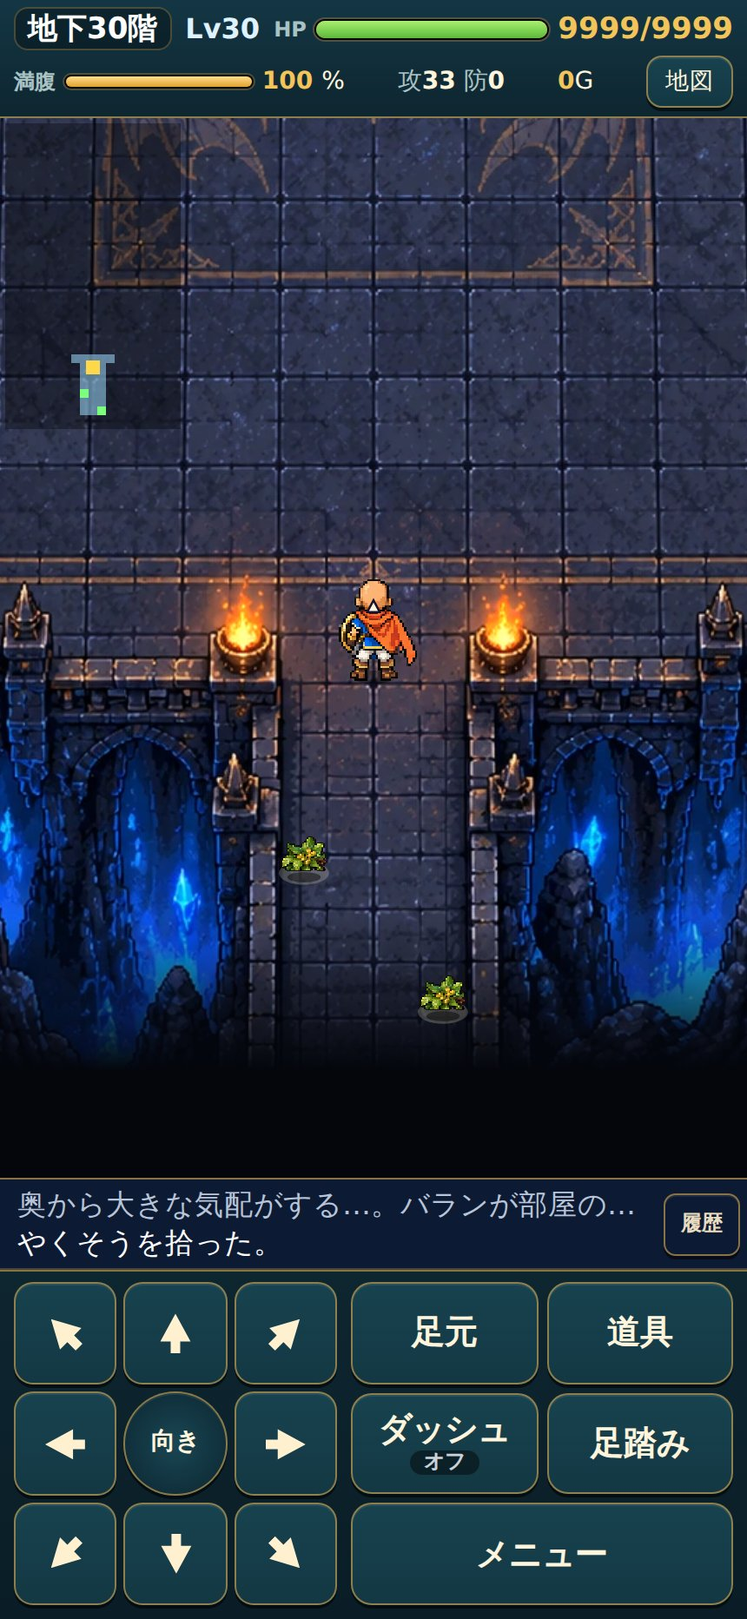
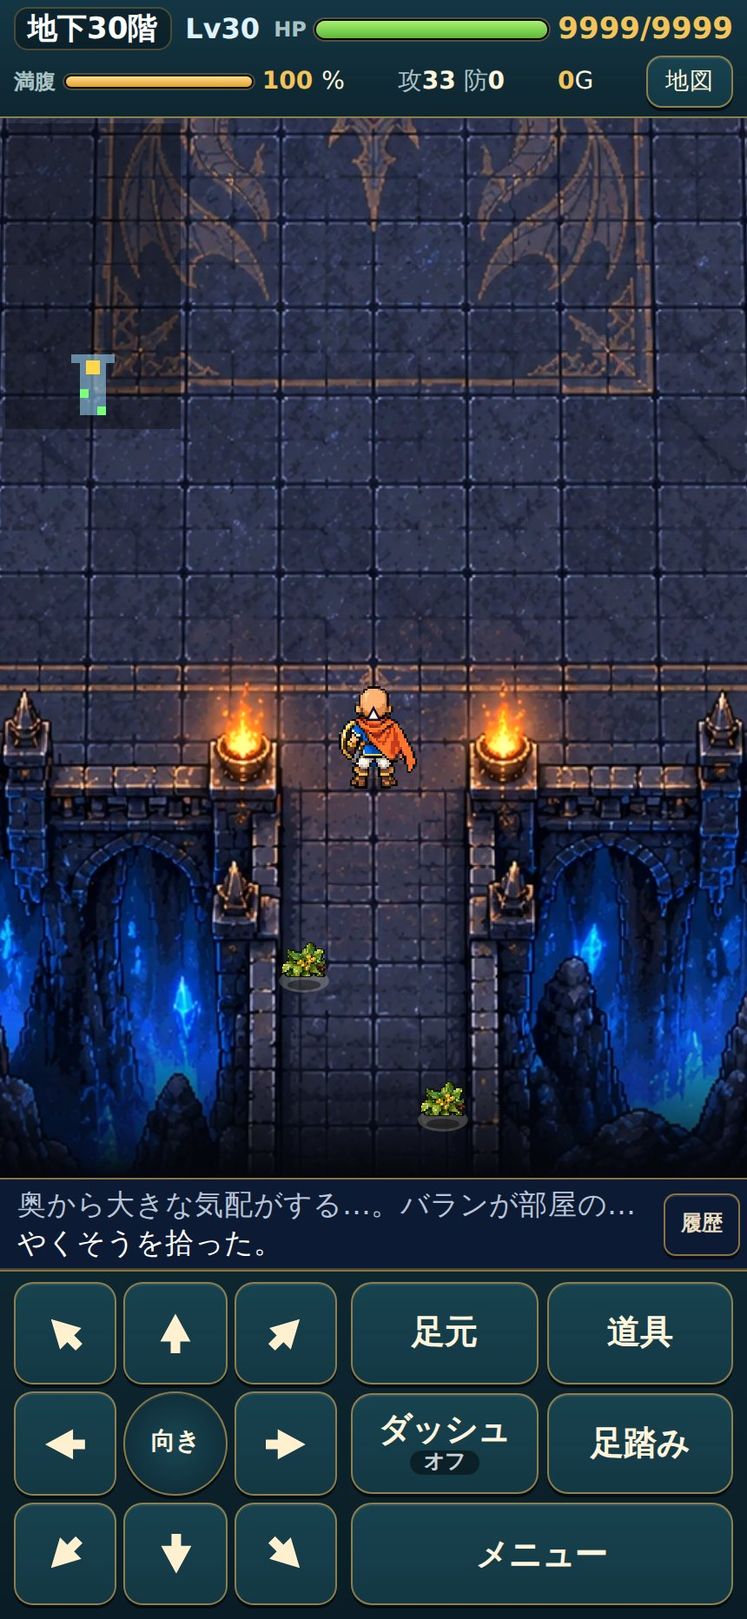
Baran room v2: closed background, throne 160px, extended layout for checking
- Use baran_room_closed.png (left opening closed) and drop the v1 patch
- Throne height 160px with the foot fixed (provisional)
- D.BARAN_ROOM_EXT (19x40) for the extended picture with the antechamber;
  not live yet (seam), checked via LAYOUT=ext tools/baran-room-check.js
- Stop the camera at the picture edges in background rooms (no black area)
- docs/BOSS_ROOM_SPECS.md: image size, entrance, boss position and
  walkable area for each boss room

Claude-Session: https://claude.ai/code/session_01HDLigwwegm7F2trSGLBQuS

diff --git a/tools/baran-room-check.js b/tools/baran-room-check.js
@@ -4,14 +4,19 @@
 //  上へ歩いて広間へ入る1歩で登場ムービー（このブラウザは動画を再生できないので、読み込み失敗から戦いへ）。開始は1回だけ
 //  バランは広間の中央。たけと並べた画面。倒すと帰還口（金の魔法陣）が広間の床に
 //  あわせて地図を書き出し、全体図（tools/baran-room-overview.py）を作る
+// LAYOUT=ext：前室を足した版（D.BARAN_ROOM_EXT。背景は assets/reference/baran-room-v2/baran_room_extended.png、継ぎ目あり・確認用）で同じことを確かめる（既定の出力 docs/baran-room-v2-ext/）
 const { chromium } = (() => { try { return require('playwright'); } catch (e) { return require('/opt/node22/lib/node_modules/playwright'); } })();
 const http = require('http'), fs = require('fs'), path = require('path'), { execFileSync } = require('child_process');
-const ROOT = path.join(__dirname, '..'), OUT = process.argv[2] || path.join(ROOT, 'docs', 'baran-room-v1');
+const EXT = process.env.LAYOUT === 'ext', LAY = EXT ? 'BARAN_ROOM_EXT' : 'BARAN_ROOM', EXT_IMG = 'assets/reference/baran-room-v2/baran_room_extended.png';
+const ROOT = path.join(__dirname, '..'), OUT = process.argv[2] || path.join(ROOT, 'docs', EXT ? 'baran-room-v2-ext' : 'baran-room-v1');
 fs.mkdirSync(OUT, { recursive: true });
 const PORT = 8835;
 const srv = http.createServer((q, r) => { let f = path.join(ROOT, decodeURIComponent(q.url.split('?')[0])); if (f.endsWith('/')) f += 'index.html';
   fs.readFile(f, (e, d) => { if (e) { r.writeHead(404); r.end(); return; } r.writeHead(200, { 'Content-Type': { '.html': 'text/html', '.js': 'text/javascript', '.css': 'text/css', '.png': 'image/png', '.webp': 'image/webp', '.jpg': 'image/jpeg' }[path.extname(f)] || 'application/octet-stream' }); r.end(d); }); }).listen(PORT);
 let ok = 0, ng = 0; const chk = (c, m) => { if (c) ok++; else ng++; console.log(c ? 'OK' : 'NG', m); };
+// 確認用の部屋に切り替える（読み込み直すたびに）。前室を足した版の背景は、ゲームの素材には入れていないので、ここで読み込む
+const useLayout = (p) => p.evaluate(async ([LAY, img]) => { TS.Data.BARAN_ROOM_LAYOUT = LAY; if (LAY !== 'BARAN_ROOM_EXT') return;
+  const im = new Image(); im.src = img; await im.decode(); TS.Sprites.art.rooms.baranBgExt = im; }, [LAY, EXT_IMG]);
 const closeTalk = async (p) => { for (let i = 0; i < 40 && await p.$('.talk'); i++) { await p.tap('.modal-buttons button.primary', { timeout: 500 }).catch(() => {}); await p.waitForTimeout(120); } };
 
 (async () => {
@@ -26,24 +31,29 @@ const closeTalk = async (p) => { for (let i = 0; i < 40 && await p.$('.talk'); i
       G.depart(S, 4040); const r = S.run; r.player.hp = r.player.maxhp = 9999; r.player.lvl = 30;
       while (r.floor < G.maxFloor(r) - 1) { r.enemies = []; r.player.x = r.stairs.x; r.player.y = r.stairs.y; G.act(S, { type: 'descend' }); }
       r.enemies = []; r.player.x = r.stairs.x; r.player.y = r.stairs.y; TS.Save.save(S); });
-    await p.reload(); await p.waitForTimeout(700); await p.tap('#btn-continue'); await p.waitForTimeout(900);
+    await p.reload(); await p.waitForTimeout(700); await useLayout(p); await p.tap('#btn-continue'); await p.waitForTimeout(900);
     await p.evaluate(() => { while (TS.UI.modals.length) TS.UI.modals[TS.UI.modals.length - 1].close(); TS.UI.lockUntil = 0; });
     await p.tap('#b-foot'); await p.waitForTimeout(200); await p.tap('.modal-buttons button.primary'); await p.waitForTimeout(1200);
     await p.evaluate(() => { while (TS.UI.modals.length) TS.UI.modals[TS.UI.modals.length - 1].close(); TS.UI.lockUntil = 0; });
-    const a = await p.evaluate((W) => { const r = TS.UI.S.run, m = r.map, A = r.bossFight; return { floor: r.floor, bg: m.bg, w: m.w, h: m.h, p: [r.player.x, r.player.y], A,
-      boss: (r.enemies.find((e) => e.boss) || {}).type, art: !!(TS.Sprites.art.rooms.baranBg && TS.Sprites.art.rooms.baranThrone),
-      json: W === 390 ? { B: TS.Data.BARAN_ROOM, w: m.w, h: m.h, pass: m.tiles.map((t, i) => TS.Dungeon.passable(m, i % m.w, (i / m.w) | 0) ? 1 : 0), start: { x: r.player.x, y: r.player.y }, boss: (() => { const e = r.enemies.find((q) => q.boss); return { x: e.x, y: e.y }; })() } : null }; }, W);
-    chk(a.floor === 30 && a.bg === 'BARAN_ROOM' && a.w === 19 && a.h === 34 && a.boss === 'baran' && a.art && a.p.join() === '9,32', `${W} 第4章30階：バランの部屋（背景の絵・玉座）・下の通路の入口 ${JSON.stringify({ ...a, json: undefined })}`);
+    const a = await p.evaluate(([W, EXT_IMG]) => { const r = TS.UI.S.run, m = r.map, A = r.bossFight, B = TS.Data[m.bg] || {}; return { floor: r.floor, bg: m.bg, w: m.w, h: m.h, p: [r.player.x, r.player.y], A,
+      boss: (r.enemies.find((e) => e.boss) || {}).type, art: !!(TS.Sprites.art.rooms[B.bg] && TS.Sprites.art.rooms.baranThrone),
+      json: W === 390 ? { B, bgPath: m.bg === 'BARAN_ROOM_EXT' ? EXT_IMG : 'assets/rooms/baran-room.webp', w: m.w, h: m.h, pass: m.tiles.map((t, i) => TS.Dungeon.passable(m, i % m.w, (i / m.w) | 0) ? 1 : 0), start: { x: r.player.x, y: r.player.y }, boss: (() => { const e = r.enemies.find((q) => q.boss); return { x: e.x, y: e.y }; })() } : null }; }, [W, EXT_IMG]);
+    const L = EXT ? { h: 40, start: '9,38' } : { h: 34, start: '9,32' };
+    chk(a.floor === 30 && a.bg === LAY && a.w === 19 && a.h === L.h && a.boss === 'baran' && a.art && a.p.join() === L.start, `${W} 第4章30階：バランの部屋（背景の絵・玉座）・下の通路の入口 ${JSON.stringify({ ...a, json: undefined })}`);
     if (a.json) fs.writeFileSync(path.join(OUT, '_map.json'), JSON.stringify(a.json));
     // 背景の絵を敷いて、タイルの層は描かない
     const draws = await p.evaluate(() => { const R = TS.Sprites.art.rooms, seq = []; const o = CanvasRenderingContext2D.prototype.drawImage;
-      CanvasRenderingContext2D.prototype.drawImage = function (im, ...x) { seq.push(im === R.baranBg ? 'bg' : im === R.baranThrone ? 'throne' : 'x'); return o.call(this, im, ...x); };
+      CanvasRenderingContext2D.prototype.drawImage = function (im, ...x) { seq.push(im === R[TS.Data[TS.UI.S.run.map.bg].bg] ? 'bg' : im === R.baranThrone ? 'throne' : 'x'); return o.call(this, im, ...x); };
       TS.Render.drawDungeon(document.getElementById('dungeon-canvas'), TS.UI.S, performance.now()); CanvasRenderingContext2D.prototype.drawImage = o;
       return { bg: seq.filter((s) => s === 'bg').length, throne: seq.filter((s) => s === 'throne').length }; });
     chk(draws.bg === 1, `${W} 背景の絵を1回で敷く ${JSON.stringify(draws)}`);
     await p.screenshot({ path: path.join(OUT, `phone-entry_${W}.jpg`), quality: 85 });
-    // 上へ歩く：5歩で通路の上の端、6歩目で広間（登場ムービー）
-    for (let i = 0; i < 5; i++) { await p.evaluate(() => { TS.UI.lockUntil = 0; }); await p.tap('#dpad [data-dir="up"]'); await p.waitForTimeout(260); }
+    // 上へ歩く：通路の上の端（前室なし 5歩・前室あり 11歩）、次の1歩で広間（登場ムービー）
+    if (EXT) {   // 前室の中ほど（2歩）：前室・継ぎ目の見え方
+      for (let i = 0; i < 3; i++) { await p.evaluate(() => { TS.UI.lockUntil = 0; }); await p.tap('#dpad [data-dir="up"]'); await p.waitForTimeout(260); }
+      await p.screenshot({ path: path.join(OUT, `phone-ante_${W}.jpg`), quality: 85 });
+    }
+    for (let i = EXT ? 3 : 0; i < (EXT ? 11 : 5); i++) { await p.evaluate(() => { TS.UI.lockUntil = 0; }); await p.tap('#dpad [data-dir="up"]'); await p.waitForTimeout(260); }
     const b5 = await p.evaluate(() => { const r = TS.UI.S.run; return { p: [r.player.x, r.player.y], intro: r.bossFight.intro || null, engaged: r.bossFight.engaged }; });
     chk(b5.p.join() === '9,27' && !b5.intro && !b5.engaged, `${W} 通路の上の端（まだ始まらない） ${JSON.stringify(b5)}`);
     await p.screenshot({ path: path.join(OUT, `phone-door_${W}.jpg`), quality: 85 });
@@ -76,7 +86,7 @@ const closeTalk = async (p) => { for (let i = 0; i < 40 && await p.$('.talk'); i
     chk(!errs.length, `${W} エラーなし ${errs.join(' / ')}`);
     await ctx.close();
   }
-  try { execFileSync('python3', ['-I', path.join(__dirname, 'baran-room-overview.py'), path.join(OUT, '_map.json')]); fs.rmSync(path.join(OUT, '_map.json')); } catch (e) { chk(false, '全体図：' + e.message); }
+  try { execFileSync('python3', ['-I', path.join(__dirname, 'baran-room-overview.py'), path.join(OUT, '_map.json'), OUT]); fs.rmSync(path.join(OUT, '_map.json')); } catch (e) { chk(false, '全体図：' + e.message); }
   console.log(`\n${ok} OK / ${ng} NG`);
   await b.close(); srv.close();
   process.exit(ng ? 1 : 0);

diff --git a/js/data.js b/js/data.js
@@ -67,15 +67,26 @@
    *  列9（広間の中央の列・下の通路の中央）の中心が、絵の中央 x470.5 に来る
    *  広間（戦う床）：x2〜16・y10〜26（15×17）。絵の床 x 約97〜843（縁の帯に少しかかる）。
    *  前室と通路：絵の下の中央の通路（柱の内側 x400〜537）＝ x8〜10・y27〜32（3×6）。入口（たけが立つ所）は (9,32)。
-   *  壁：玉座の壇・階段・左右の縁と炎の台・柱・下の通路の両脇・地図のいちばん下の行。左の旧入口（絵の左の開口）は閉じた（make-baran-room.py の仮のつぎあて）。
-   *  throne：玉座（assets/rooms/baran-throne.png）を壇の上に描く。絵の座標で中心x・足元y・高さ（130px は仮。バランとたけを並べて確認する）。当たり判定は無い（壇は壁）
+   *  壁：玉座の壇・階段・左右の縁と炎の台・柱・下の通路の両脇・地図のいちばん下の行。左の旧入口は、閉じた版の絵（ZIP baran_room_assets_v2）で閉じている。
+   *  throne：玉座（assets/rooms/baran-throne.png）を壇の上に描く。絵の座標で中心x・足元y・高さ（160px は確認用）。当たり判定は無い（壇は壁）
    *  flames：絵の中の炎の位置（ゆらぐ明かりを重ねる） */
   D.BARAN_ROOM = {
     bg: 'baranBg', w: 19, h: 34, tile: 845 / 17, imgX: 470.5 - 845 / 17 * 9.5, imgY: 500 - 845 / 17 * 10, imgW: 941, imgH: 1672,
     hall: { x: 2, y: 10, w: 15, h: 17 }, corridor: { x: 8, y: 27, w: 3, h: 6 }, start: { x: 9, y: 32 },
-    throne: { img: 'baranThrone', cx: 470, foot: 398, h: 130 },
+    throne: { img: 'baranThrone', cx: 470, foot: 398, h: 160 },   // 足元（x470・y398）は固定。高さは 130→160px（2026年10月20日、確認用。確定ではない）
     flames: [[92, 400], [250, 392], [380, 350], [560, 350], [695, 392], [850, 400], [75, 575], [65, 755], [60, 960], [55, 1260], [885, 575], [870, 850], [880, 1260], [375, 1355], [565, 1355]],
   };
+  /* 前室を足した版（ZIP baran_room_assets_v2 の baran_room_extended.png、941×1972）。**配置の確認用**（継ぎ目が残るので、ゲームではまだ使わない）。
+   * 座標と倍率は D.BARAN_ROOM と同じ（絵の上の1672pxは閉じた版と同じピクセル）。下の300pxに前室：
+   *  通路 x8〜10・y27〜33（3×7）→ 前室 x7〜11・y34〜36（5×3。最初の道具を置く）→ 出口側 x8〜10・y37〜38（炎の台の間）。入口は (9,38)。
+   *  前室の左右の壁（絵の x 約290〜320・615〜650）、下の炎の台（x365〜405・530〜570、y1845〜1890）は壁 */
+  D.BARAN_ROOM_EXT = Object.assign({}, D.BARAN_ROOM, {
+    bg: 'baranBgExt', h: 40, imgH: 1972,
+    corridor: { x: 7, y: 34, w: 5, h: 3 }, floors: [{ x: 8, y: 27, w: 3, h: 7 }, { x: 8, y: 37, w: 3, h: 2 }], start: { x: 9, y: 38 },
+    flames: D.BARAN_ROOM.flames.concat([[305, 1790], [630, 1790], [385, 1868], [550, 1868]]),
+  });
+  // 通常バラン戦で使う部屋：前室を足した背景が仕上がるまでは D.BARAN_ROOM（確認用の画面は tools/baran-room-check.js が D.BARAN_ROOM_EXT に切り替える）
+  D.BARAN_ROOM_LAYOUT = 'BARAN_ROOM';
   /* 隠しダンジョン（2026年10月確定）：真大魔王バーンを倒したあと、30階の時空の亀裂から入る。
    * 31階から始まり、35階の竜人王バランまで。31〜34階は部屋の数が本編の約2倍（D.HIDDEN_MAP）。32〜34階は強敵（enemyMul、仮）。帰還の祠は無い。
    * 本編の31〜33階とは別の階（run.hidden）。帰りは帰還の巻物か、竜人王バランを倒したあとの帰還口

diff --git a/js/render.js b/js/render.js
@@ -290,7 +290,14 @@
     const pp = lerpPos('p', p.x, p.y, now);
     // 強いボスの攻撃だけ、画面を少し揺らす（「演出：控えめ」では揺らさない）
     const shk = TS.FX ? TS.FX.shakeOffset(RD, now, k) : [0, 0];
-    const ox = Math.round(W / 2 - (pp.x + 0.5) * ts) + shk[0], oy = Math.round(H / 2 - (pp.y + 0.5) * ts) + shk[1];
+    let ox = Math.round(W / 2 - (pp.x + 0.5) * ts) + shk[0], oy = Math.round(H / 2 - (pp.y + 0.5) * ts) + shk[1];
+    /* 背景の絵の部屋（30階の玉座の間・通常バラン戦）：絵の外（黒）が画面に出ないよう、絵の上下の端で見る位置を止める
+     * （たけが入口・前室のような絵の端にいるとき、たけは画面の中央より下に見える）。絵が画面より小さい向きは止めない */
+    const bgCam = m.throne ? D.THRONE_ROOM : m.bg ? D[m.bg] : null;
+    if (bgCam) {
+      const sc = ts / bgCam.tile, top = oy - bgCam.imgY * sc, bot = top + bgCam.imgH * sc;
+      if (bgCam.imgH * sc >= H) { if (bot < H) oy += Math.round(H - bot); else if (top > 0) oy -= Math.round(top); }
+    }
     const x0 = Math.max(0, Math.floor(-ox / ts)), x1 = Math.min(m.w - 1, Math.ceil((W - ox) / ts));
     const y0 = Math.max(0, Math.floor(-oy / ts)), y1 = Math.min(m.h - 1, Math.ceil((H - oy) / ts));
     const L = getLayer(run);

diff --git a/js/game.js b/js/game.js
@@ -312,7 +312,7 @@
     const throne30 = throne && floor === FF.vearn;
     // 隠しダンジョン：部屋の大きい地図（D.HIDDEN_MAP）。帰還の祠は無い
     // 通常バラン戦（第4章）：背景の絵の部屋（D.BARAN_ROOM。下の通路から入る）。竜人王バラン（隠しダンジョン）には使わない
-    const room = Fdef.boss === 'baran' ? 'BARAN_ROOM' : null;
+    const room = Fdef.boss === 'baran' ? D.BARAN_ROOM_LAYOUT || 'BARAN_ROOM' : null;
     const gen = DG.generate(floor, rng, { boss: !!Fdef.boss || throne, throne: throne30, room, hidden: !!Fdef.hidden, returnPoint: !Fdef.hidden && !Fdef.boss && !throne && rpFloors.includes(floor) });
     run.hazards = []; run.fog = 0; run.sense = 0;   // 気配察知は階を移ると切れる
     run.player.half = 0;   // 2回行動の途中は、階を移ると数え直す

diff --git a/js/dungeon.js b/js/dungeon.js
@@ -178,7 +178,7 @@
     const T = D[name], w = T.w, h = T.h;
     const tiles = new Array(w * h).fill(WALL);
     const rooms = [Object.assign({ id: 0 }, T.corridor), Object.assign({ id: 1 }, T.hall)];
-    for (const r of rooms) for (let y = r.y; y < r.y + r.h; y++) for (let x = r.x; x < r.x + r.w; x++) tiles[y * w + x] = FLOOR;
+    for (const r of rooms.concat(T.floors || [])) for (let y = r.y; y < r.y + r.h; y++) for (let x = r.x; x < r.x + r.w; x++) tiles[y * w + x] = FLOOR;   // floors：部屋ではない通路の床
     const map = { w, h, tiles, rooms, boss: true, bg: name };
     const hl = T.hall;
     return { map, start: { x: T.start.x, y: T.start.y }, stairs: null, returnPoint: null, startRoom: 0, bossPos: { x: hl.x + (hl.w >> 1), y: hl.y + (hl.h >> 1) } };

diff --git a/tools/make-baran-room.py b/tools/make-baran-room.py
@@ -1,22 +1,24 @@
 # 通常バラン戦の部屋の素材を作る：python3 -I tools/make-baran-room.py
-# 元の素材（ChatGPT制作。描き直しはしない）：assets/reference/baran-room-v1/
-#   baran_room.png（941×1672）→ assets/rooms/baran-room.webp（同じ大きさ）
-#     ※仮のつぎあて：左の壁の開口（旧入口。絵の x0〜104・y857〜927）は通れないので、同じ絵の左の壁（y990〜1060）を写して閉じる。
-#       ChatGPT の直した絵が届いたら、このつぎあては外す（PATCH を空にする）
-#   baran_throne.png（透過あり）→ 透明な余白を切り落として高さ260（ゲームでは130px＝2.6マス相当で描く。倍の細かさ）→ assets/rooms/baran-throne.png
+# 元の素材（ChatGPT制作。描き直しはしない）：
+#   assets/reference/baran-room-v2/baran_room_closed.png（941×1672。v1 の左の旧入口を閉じた版）→ assets/rooms/baran-room.webp（同じ大きさ）
+#     v1 で入れていた仮のつぎあて（PATCH）は、閉じた版が届いたので外した（PATCH は空）
+#   assets/reference/baran-room-v2/baran_room_extended.png（941×1972。下に前室を足した版）→ 継ぎ目が残っているので、ゲームの背景には使わない。
+#     配置の確認用（node tools/baran-room-check.js が D.BARAN_ROOM_EXT で読み込む）。仕上がった版が届いたら baran-room.webp をこれに替える
+#   assets/reference/baran-room-v1/baran_throne.png（透過あり）→ 透明な余白を切り落として高さ320（ゲームでは160px＝3.2マス相当で描く。倍の細かさ）→ assets/rooms/baran-throne.png
 import os
 from PIL import Image
 ROOT = os.path.join(os.path.dirname(os.path.abspath(__file__)), '..')
-SRC = os.path.join(ROOT, 'assets/reference/baran-room-v1/')
+SRC = os.path.join(ROOT, 'assets/reference/baran-room-v2/')
+SRC1 = os.path.join(ROOT, 'assets/reference/baran-room-v1/')
 OUT = os.path.join(ROOT, 'assets/rooms/')
-PATCH = [((0, 990, 104, 1060), (0, 857))]   # (写す範囲, 貼る左上)。下の炎の台の下の壁の柱を写す
-bg = Image.open(SRC + 'baran_room.png').convert('RGB')
+PATCH = []   # (写す範囲, 貼る左上)。v1 の仮のつぎあて ((0, 990, 104, 1060), (0, 857)) は外した
+bg = Image.open(SRC + 'baran_room_closed.png').convert('RGB')
 for box, at in PATCH:
     bg.paste(bg.crop(box), at)
 bg.save(OUT + 'baran-room.webp', 'WEBP', quality=92, method=6)
-th = Image.open(SRC + 'baran_throne.png').convert('RGBA')
+th = Image.open(SRC1 + 'baran_throne.png').convert('RGBA')
 th = th.crop(th.getchannel('A').getbbox())
-h = 260
+h = 320
 th = th.resize((round(th.width * h / th.height), h), Image.LANCZOS)
 th.save(OUT + 'baran-throne.png', optimize=True)
 print('bg', bg.size, 'throne', th.size)

diff --git a/tools/baran-room-overview.py b/tools/baran-room-overview.py
@@ -1,11 +1,11 @@
-# 通常バラン戦の部屋の全体図：python3 -I tools/baran-room-overview.py <地図のJSON>（node tools/baran-room-check.js が書き出して呼ぶ）
+# 通常バラン戦の部屋の全体図：python3 -I tools/baran-room-overview.py <地図のJSON> [出力フォルダ]（node tools/baran-room-check.js が書き出して呼ぶ）
 # 背景（assets/rooms/baran-room.webp）に、通れるマス（緑の枠）・入口・ボスの位置・玉座・バランとたけ（ゲームと同じ倍率）を重ねる
 import sys, os, json
 from PIL import Image, ImageDraw, ImageFont
 ROOT = os.path.join(os.path.dirname(os.path.abspath(__file__)), '..')
 J = json.load(open(sys.argv[1])); B = J['B']; T = B['tile']
 F = ImageFont.truetype('/usr/share/fonts/truetype/wqy/wqy-zenhei.ttc', 20)
-bg = Image.open(os.path.join(ROOT, 'assets/rooms/baran-room.webp')).convert('RGBA')
+bg = Image.open(os.path.join(ROOT, J.get('bgPath') or 'assets/rooms/baran-room.webp')).convert('RGBA')
 th = Image.open(os.path.join(ROOT, 'assets/rooms/baran-throne.png')).convert('RGBA')
 t = B['throne']; tw = round(th.width * t['h'] / th.height); thr = th.resize((tw, round(t['h'])), Image.LANCZOS)
 bg.alpha_composite(thr, (round(t['cx'] - tw / 2), round(t['foot'] - t['h'])))
@@ -32,12 +32,14 @@ d = ImageDraw.Draw(bg)
 def label(x, y, s, col):
     w = d.textlength(s, font=F); d.rectangle([x - 4, y - 3, x + w + 4, y + 25], fill=(0, 0, 0, 200)); d.text((x, y), s, fill=col, font=F)
 label(110, 508, '広間 15×17（緑の枠＝通れるマス）', (130, 255, 150))
-label(560, 1530, '前室・通路 3×6', (130, 255, 150))
-label(560, 1600, '入口（黄色の枠）', (255, 230, 90))
-label(4, 820, '旧入口：閉じた（仮のつぎあて）', (255, 140, 140))
-label(560, 150, '玉座 高さ130px（仮）', (255, 230, 160))
+ext = J['h'] > 34
+label(560, 1530, '通路 3×7・前室 5×3（確認用）' if ext else '前室・通路 3×6', (130, 255, 150))
+label(560, 1600 if not ext else 1900, '入口（黄色の枠）', (255, 230, 90))
+label(4, 820, '旧入口：閉じた版の絵', (255, 140, 140))
+label(560, 150, '玉座 高さ%dpx（足元固定）' % round(t['h']), (255, 230, 160))
+if ext: label(4, 1640, '継ぎ目（y1672）', (255, 140, 140))
 label(560, 182, '左：たけ　右：バラン（大きさの比較）', (255, 230, 160))
-out = os.path.join(ROOT, 'docs', 'baran-room-v1'); os.makedirs(out, exist_ok=True)
+out = sys.argv[2] if len(sys.argv) > 2 else os.path.join(ROOT, 'docs', 'baran-room-v1'); os.makedirs(out, exist_ok=True)
 bg.convert('RGB').save(os.path.join(out, 'overview.jpg'), quality=88)
 clean.convert('RGB').save(os.path.join(out, 'overview-clean.jpg'), quality=88)
 print('saved')

diff --git a/docs/BARAN_ROOM_V1.md b/docs/BARAN_ROOM_V1.md
@@ -29,8 +29,8 @@
 - **広間（戦う床）**：15×17（x2〜16・y10〜26）。今までの広間（15×15）より2行広い。
 - **前室・通路**：絵の下の中央の通路（柱の内側 x400〜537）を通れる所にしました。x8〜10・y27〜32（3×6）。入口（たけが立つ所）は (9,32)。最初の道具はここに置きます。
 - **壁**：玉座の壇・階段・左右の縁と炎の台・柱・下の通路の両脇。
-- **左の旧入口**：通れません。絵の左の開口は、**仮のつぎあて**（同じ絵の左の壁 y990〜1060 を写した）で閉じています。ChatGPT の直した絵が届いたら差し替えます（下の依頼1）。
-- **玉座**：`assets/rooms/baran-throne.png` を壇の上の中央に描きます（絵の x470・足元 y398・高さ130px＝2.6マス。**仮**）。当たり判定はありません（壇は壁）。
+- **左の旧入口**：通れません。絵も閉じた版（v2）に替えました。
+- **玉座**：`assets/rooms/baran-throne.png` を壇の上の中央に描きます（絵の x470・足元 y398・高さ160px＝3.2マス。**確認用**）。当たり判定はありません（壇は壁）。
 - **ボスの最初の位置**：広間の中央 (9,18)。入口からの距離は8マス（今までの7マスより1マス遠い）。
 - 竜人王バラン（隠しダンジョン）には使っていません。
 
@@ -39,8 +39,19 @@
 - **共通の形**：通路が6マス → 3マス。ボスは広間から出ないので戦いには影響しません。
 - **画面の見え方**：スマホの画面は縦に長いので、下から入ると広間の奥が少し見えやすくなります。入った直後、ボス（7〜8マス上）は画面の上の端の外か端にいます（以前の左の入口でも、横7マスで画面の外でした）。
 
+## v2（ZIP baran_room_assets_v2、2026年10月20日）
+- **左の旧入口を閉じた版**（`baran_room_closed.png`、941×1672）を、ゲームの背景にしました。元の絵との差は x0〜109・y800〜959 だけ（README のとおり）。v1 の仮のつぎあては外しました。
+- **玉座**：足元（x470・y398）を固定したまま、高さ 130 → **160px**（3.2マス）。確認用で、確定ではありません。
+- **前室を足した版**（`baran_room_extended.png`、941×1972）：上の1672pxは閉じた版と同じピクセル。**継ぎ目（y1672）が残るので、ゲームの背景にはまだ使っていません**。
+  - 配置の確認用に、地図 `D.BARAN_ROOM_EXT`（19×40）を用意しました。座標と倍率は同じです。
+    - 通路 x8〜10・y27〜33（3×7）→ 前室 x7〜11・y34〜36（5×3。最初の道具）→ 出口側 x8〜10・y37〜38 → 入口 (9,38)。
+    - 前室の左右の壁と、下の炎の台（x365〜405・530〜570）は通れない。
+  - 確認：`LAYOUT=ext node tools/baran-room-check.js`（画像は `docs/baran-room-v2-ext/`）。仕上がった絵が届いたら `D.BARAN_ROOM_LAYOUT = 'BARAN_ROOM_EXT'` にして、背景を差し替えます。
+- **入口の黒い所**：背景の絵の部屋（バラン・30階の玉座の間）では、画面を絵の上下の端で止めるようにしました。入口に立っても、絵の外の黒が画面に出ません（たけは画面の中央より下に見える）。
+- 元の素材：`assets/reference/baran-room-v2/`（README・閉じた版・前室つき版・継ぎ目のない見本 design_reference.png）。
+
 ## 確認したこと（PCのブラウザで幅360・390・430）
-- `node tools/baran-room-check.js`（18項目すべて OK）：
+- `node tools/baran-room-check.js`（18項目すべて OK。前室つき版 `LAYOUT=ext` も18項目 OK）：
   - 第4章30階で、バランの部屋（背景の絵・玉座）・下の通路の入口 (9,32) に着く。背景の絵を1回で敷く。
   - 上へ5歩で通路の上の端（まだ始まらない）、6歩目で広間へ入り、登場ムービー → 戦いの開始は1回だけ。バランは広間の中央。
   - 倒すと、帰還口と報酬は広間の床。エラーなし。
@@ -49,7 +60,7 @@
   - `phone-entry_*.jpg`（入口）・`phone-door_*.jpg`（広間の入口の手前）・`phone-battle_*.jpg`（たけとバラン）・`phone-throne_*.jpg`（玉座の前でたけとバランを並べる）・`phone-portal_*.jpg`（撃破後の帰還口）
 - ロジックのテスト：全ボスの部屋が下からだけ入れる・入口から広間へ行ける・ボスは奥の中央・入室で1回だけ・報酬と帰還口は広間の床・以前の形のセーブはそのまま・33階の到着位置・バランの部屋の寸法と壁。
 
-## ChatGPT への依頼（画像と寸法）
+## ChatGPT への依頼（画像と寸法）（v1 のときの依頼。1・2 は v2 で届いた。ほかの部屋の寸法は `docs/BOSS_ROOM_SPECS.md`）
 1. **バランの部屋：左の開口を閉じた版**
    - `baran_room.png` と同じ 941×1672。左の壁の開口（x0〜110・y840〜940）を、上下と同じ壁（柱と炎の台・洞窟の岩）に。ほかは変えない。
    - 今は同じ絵の壁を写した仮のつぎあてで、継ぎ目が少し見えます。
@@ -63,5 +74,5 @@
    - 左右の縁や下の通路の脇に、出入口に見える開口は描かない。
 
 ## 判断していただきたいこと
-1. **玉座の大きさ**：130px（2.6マス）で置きました。画面（`phone-throne_390.jpg`）では、手前に立つバランより少し小さく見えます。130pxのままか、160px（3.2マス）に上げるか。
-2. **前室**：今はバランの部屋の前室を「絵の下の通路」で兼ねています（入口で画面の下半分が黒い）。上の依頼2で前室を足した絵を作ってもらうかどうか。
+1. 玉座 160px のまま確定するか（画像：`docs/baran-room-v1/phone-throne_*.jpg`・`overview.jpg`）。
+2. 前室つき版の継ぎ目が仕上がったら、その版に切り替えてよいか。

diff --git a/docs/BOSS_ROOM_SPECS.md b/docs/BOSS_ROOM_SPECS.md
@@ -1,0 +1,53 @@
+# ボス部屋の画像の制作仕様（ChatGPT 向け・2026年10月20日）
+
+全ボスの部屋を「画面の下の前室・通路から上へ進んで入り、奥のボスへ向かう」形にそろえます。
+背景の絵が届いた部屋から順に、その絵に合わせた専用の地図（通れるマス）を作ります（通常バラン戦の `D.BARAN_ROOM` と同じやり方）。
+
+## 共通の決まり
+- **1マス＝50px**（通常バラン戦だけは 845/17≒49.7px。届いた絵に合わせたため）。キャラクターは1マスの絵で描くので、この倍率に合わせて表示します。
+  - たけの身長 ≒ 73px（約1.5マス）、ボス（バランなど）の本体 ≒ 100px（約2マス）。
+- **横 950px（19マス）・縦は下の表**。引き伸ばしはしません。届いた絵の座標と倍率をそのまま使います。
+- **通れる床**と、**通れない所**（壁・柱・炎の台・玉座の壇・段差・縁の帯・洞窟の岩）を、はっきり描き分けてください。
+  - 絵の床の升目は、ゲームのマスにしなくてかまいません（升目の大きさは自由）。
+- **出入口は下だけ**です。左右・上や通路の脇に、通れそうな開口・扉・階段は描かないでください。
+  - 上の段・階段は、壇の飾りとして描いてかまいません（通れない）。
+- **絵の外は黒**になります。画面は絵の上下の端で止めているので、絵は縦いっぱいまで描いてください（いちばん下の行も岩や壁で埋める）。
+- 帰還口（金の魔法陣）・報酬の宝箱・床の印（炎・氷・罠）は、ゲームが広間の床の上に描きます。絵には入れないでください。
+- 玉座など、ボスの近くに置く大きな物は、別の透過PNGにすると大きさを後から調整できます（バランの玉座と同じ）。
+
+## 部屋の型（広間15×15）
+新しい部屋の基本の型です。絵の座標（px）で示します。
+
+| 範囲 | マス（列・行） | 絵の座標（px） | 通れるか |
+|---|---|---|---|
+| 奥の壁・壇・玉座など | 行0〜9 | y0〜500 | 通れない |
+| **広間**（戦う床） | 列2〜16・行10〜24（15×15） | x100〜850・y500〜1250 | 通れる |
+| 広間の左右の縁 | 列0〜1・17〜18 | x0〜100・850〜950 | 通れない |
+| **通路** | 列8〜10・行25〜31（3×7） | x400〜550・y1250〜1600 | 通れる |
+| **前室** | 列7〜11・行32〜34（5×3） | x350〜600・y1600〜1750 | 通れる（最初の道具を置く） |
+| 前室の出口側 | 列8〜10・行35〜36 | x400〜550・y1750〜1850 | 通れる |
+| **入口**（たけが立つ所） | (9,36) | x450〜500・y1800〜1850 | — |
+| いちばん下 | 行37 | y1850〜1900 | 通れない（岩・壁で埋める） |
+| **ボスの最初の位置** | 広間の中央 (9,17) | x450〜500・y850〜900 | — |
+
+- 画像の大きさ：**950×1900px**。
+- **戦いが始まる所**：通路のいちばん上（行25）から広間（行24）へ入る1歩で、登場ムービー → 戦い（1回だけ）。
+- **帰還口**：倒したあと、広間の中央にいちばん近い空いた床。
+- 広間の広さを変えたい部屋（例：横に広い・縦に長い）は、制作の前に相談してください。地図はその絵に合わせて作れます（バランは15×17）。
+
+## 各部屋の一覧
+
+| ボス | 階 | 今の部屋 | 画像の大きさ | 入口 | ボスの位置 | 通れる範囲 | 絵で気をつけること |
+|---|---|---|---|---|---|---|---|
+| クロコダイン（第1章） | 15階 | 共通の形（コードのタイル） | 950×1900 | (9,36) | (9,17) | 型どおり（広間15×15） | 一直線の突進がある。広間の中に柱や段差を描かない（突進の通り道が見て分かるように） |
+| フレイザード（第2章） | 20階 | 同上 | 950×1900 | (9,36) | (9,17) | 型どおり | 炎と氷の床の印を広間に置く。床は印が見やすい落ち着いた色・模様に |
+| キルバーン（第3章） | 25階 | 同上 | 950×1900 | (9,36) | (9,17) | 型どおり | 分身・入れかわり・罠の印。広間の床は全面が通れる平らな床に |
+| **バラン（第4章）** | 30階 | **背景の絵の部屋（済み）** | 941×1672（前室つき版 941×1972 は確認中） | (9,32)（前室つき版は (9,38)） | (9,18) | 広間15×17・通路・前室 | 前室つき版の継ぎ目（y1672）の仕上げ |
+| ミストバーン（第5章） | 30階 | 共通の形 | 950×1900 | (9,36) | (9,17) | 型どおり | 分身（影）を呼ぶ。広間に明暗を付けすぎない（分身が見えにくくなる） |
+| 大魔王バーン（最終章） | 30階 | **玉座の間の絵（済み・もとから下の入口）** | 1024×1536（1マス64px） | (7,23) | 広間の中央 | 広間12×13・下の通路2×5 | 変更なし（作り直す場合は相談） |
+| 真大魔王バーン（最終章） | 33階 | 共通の形＋白い異空間（コードで描く） | 950×1900 | (9,36) | (9,17) | 型どおり | 覚醒ムービーの白い空間とつなぐ（白い床・霧・空席の水晶の玉座）。絵にするかは要相談 |
+| 竜人王バラン（隠しボス） | 隠し35階 | 共通の形 | 950×1900 | (9,36) | (9,17) | 型どおり | 通常バラン戦の絵とは別の部屋に。突進・なぎ払い・十字のドルオーラ（広間の端まで届く） |
+
+- **今の部屋**（届く前）：共通の形は地図 33×24・広間 x9〜23・y1〜15・通路 x16・y16〜18・前室 x14〜18・y19〜22・入口 (16,21)。絵が届くと、上の型の座標に替わります。
+- **ボスの数値・技・報酬・進行**は、部屋の絵を替えても変えません。
+- **進行中のセーブ**：今いるボスの階は、保存した地図のまま。次にその階を作るときから新しい部屋になります。
